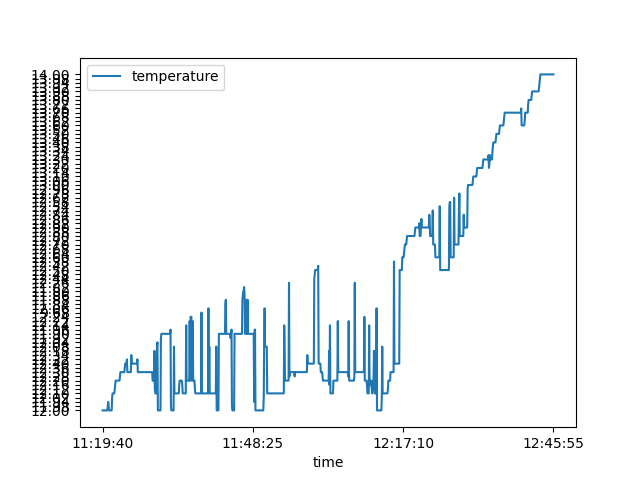
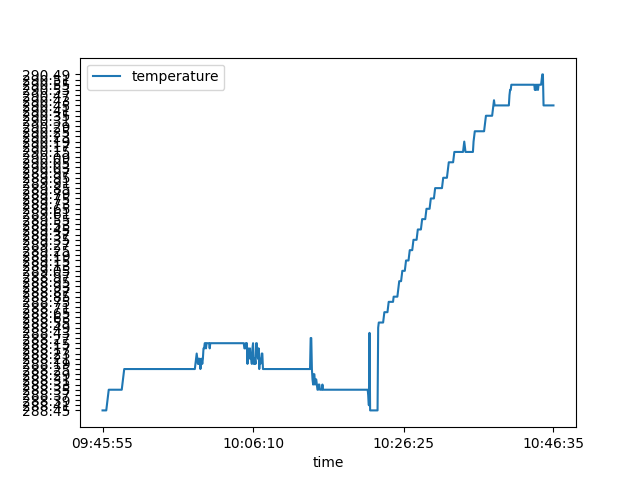
analysis

diff --git a/functions.py b/functions.py
@@ -55,6 +55,11 @@ def plot_data(time, intensity=None, temp=None):
         plt.xlabel('time')
         time_arr_len = len(time)    
         plt.xticks([time[0], time[int(time_arr_len/3)],time[int(time_arr_len*2/3)],  time[-1]])
+        max_I, min_I = float(max(intensity)), float(min(intensity))
+        intensity_interval = (float(max_I) - float(min_I))/10
+        intensity_ticks = [min_I + i*intensity_interval for i in range(0,11)]
+        print(intensity_ticks)
+        plt.yticks(intensity_ticks)
         plt.savefig('data\\intensity.png')
         plt.close()
         

diff --git a/main.py b/main.py
@@ -2,7 +2,7 @@ import functions as f
 import matplotlib.pyplot as plt
 
 
-date, time, intensity, temp = f.import_data(r'data\LOG240212-1119.csv')
+date, time, intensity, temp = f.import_data(r'data\LOG240215-0945.csv')
 
 f.plot_data(time, intensity, temp)
 
